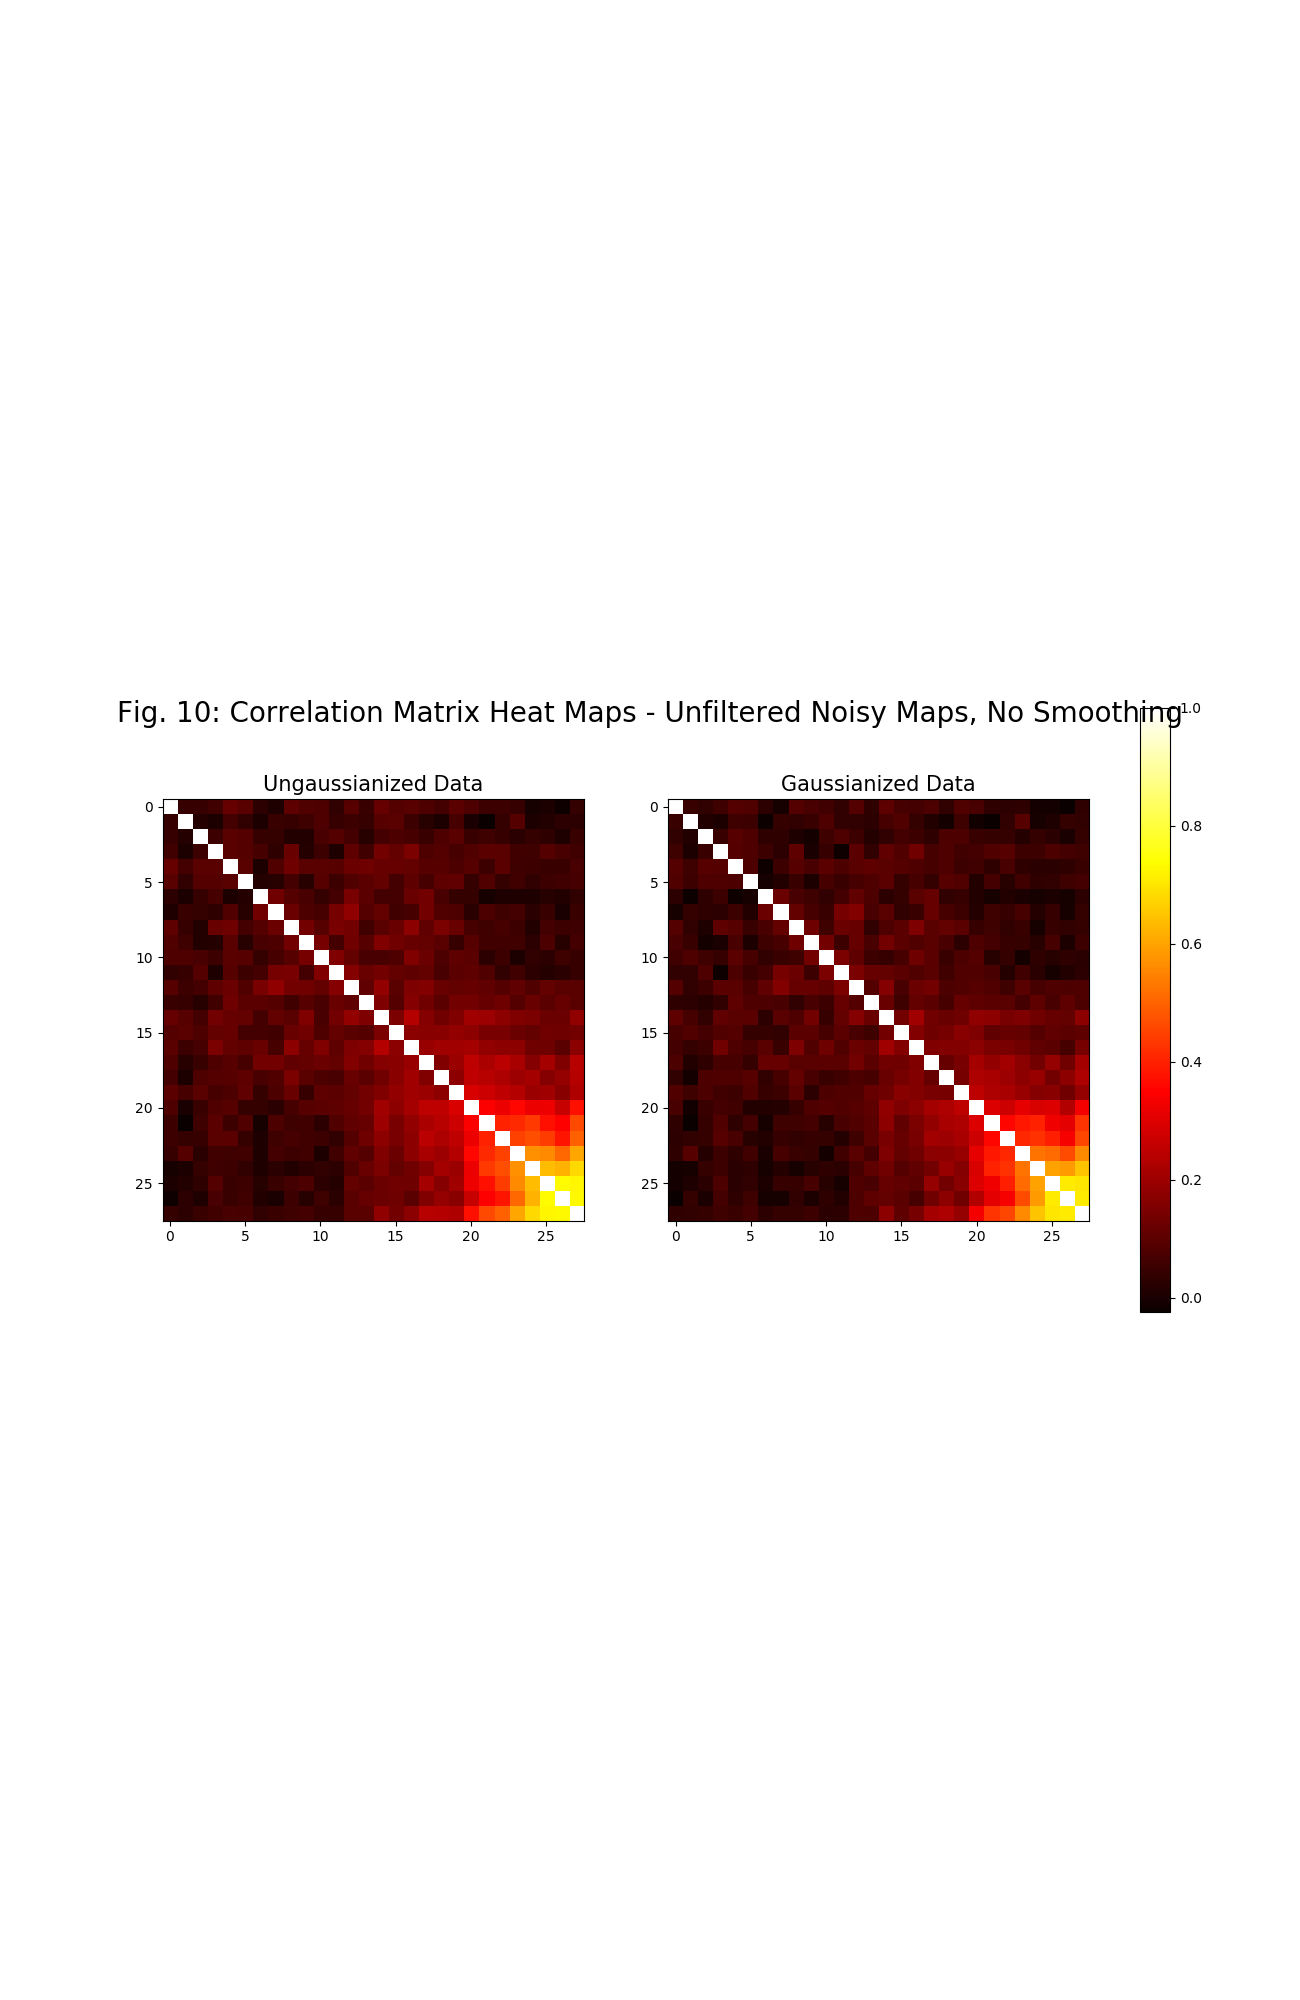
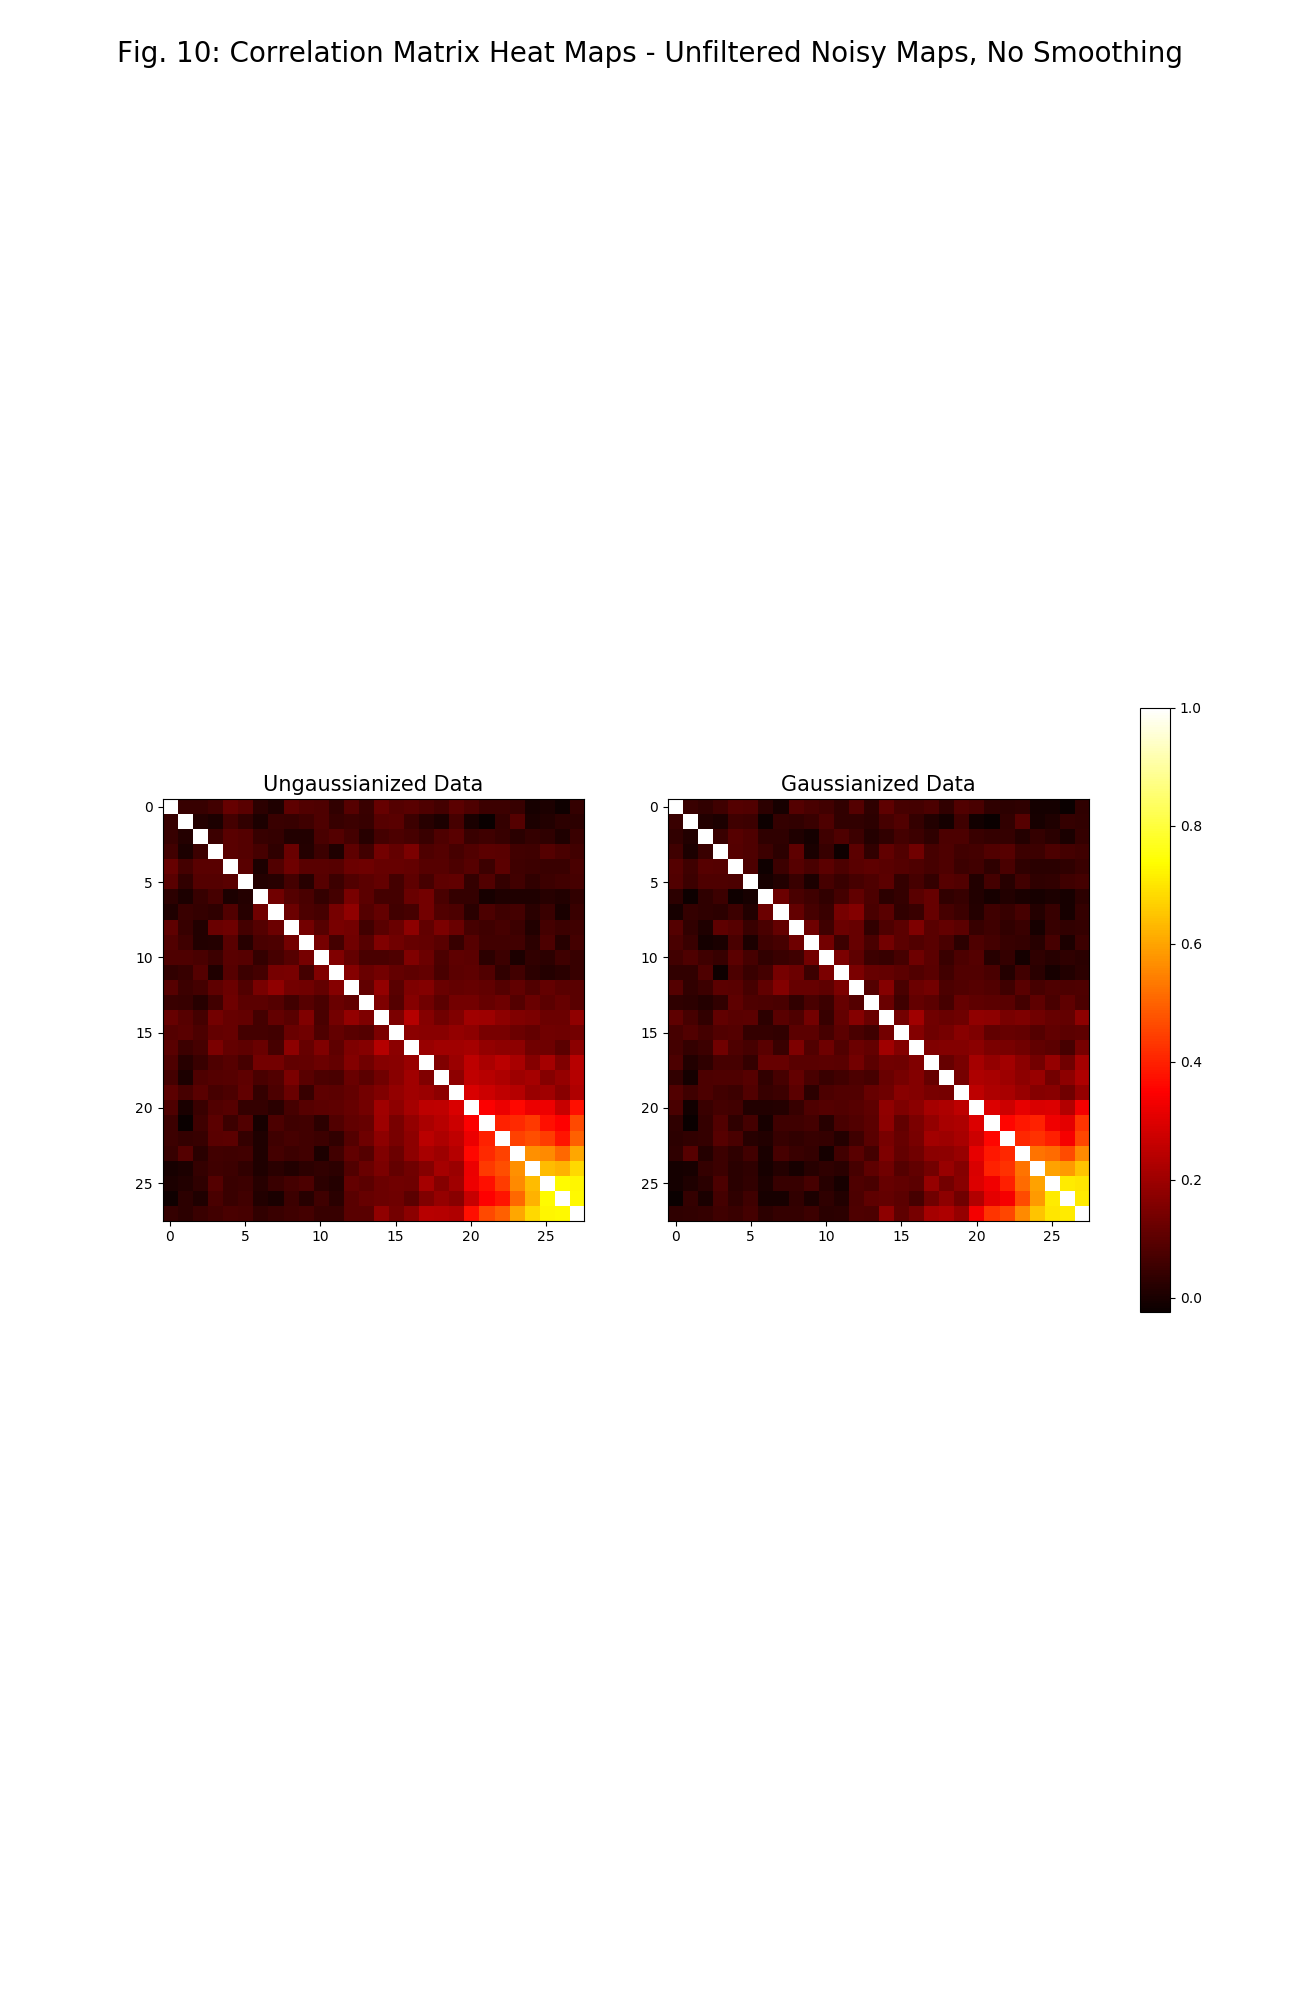
formatting

diff --git a/Parallel Gaussianization/Noisy Maps/gauss_SNR_nois.py b/Parallel Gaussianization/Noisy Maps/gauss_SNR_nois.py
@@ -174,7 +174,7 @@ correlgauss = corr_mat(covargauss)
 fig2, (ax1, ax2) = plt.subplots(nrows=1, ncols=2, figsize = (13, 20))
 axlist = [ax1, ax2]
 
-fig2.suptitle("Fig. 10: Correlation Matrix Heat Maps - Unfiltered Noisy Maps, No Smoothing", y = 0.65, fontsize = "20")
+fig2.suptitle("Fig. 10: Correlation Matrix Heat Maps - Unfiltered Noisy Maps, No Smoothing", fontsize = "20")
 first = ax1.imshow(np.array(correl), cmap = 'hot', vmin = -0.025, vmax = 1.0)
 ax1.set_title('Ungaussianized Data', fontsize = "15")
 
